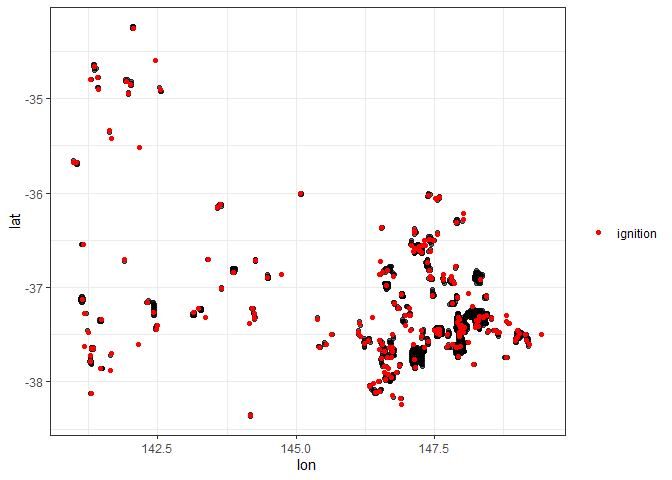
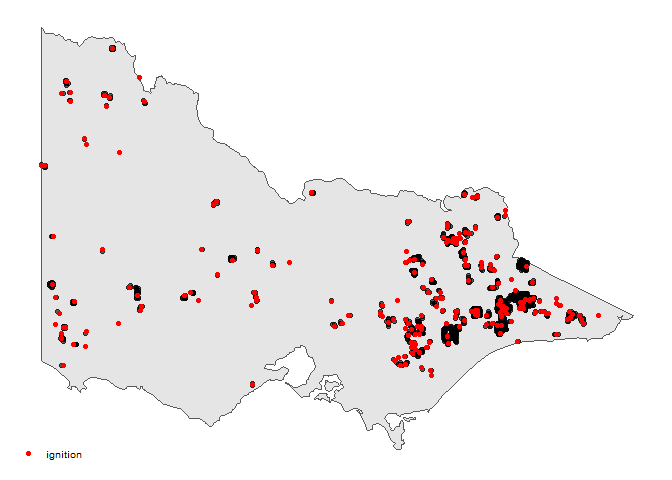
update readme

diff --git a/README.md b/README.md
@@ -61,6 +61,18 @@ hotspots5000[1:10,]
 #> 10 10 141.14 -37.16 2019-10-01 03:20:00
 ```
 
+``` r
+library(tidyverse)
+library(rnaturalearth)
+au_map <- ne_states(country = "Australia", returnclass = "sf")
+vic_map <- au_map[7,]
+ggplot(hotspots5000) +
+  geom_sf(data = vic_map) +
+  geom_point(aes(lon, lat), alpha = 0.3) +
+  ggthemes::theme_map() +
+  ggtitle("Raw Hotspots")
+```
+
 <img src="man/figures/README-unnamed-chunk-6-1.png" width="70%" height="70%" />
 
 Perform spatiotemporal clustering on this dataset.
@@ -127,7 +139,10 @@ summary(results)
 Plot of the result.
 
 ``` r
-plot(results, ignition = TRUE)
+p <- ggplot() +
+  geom_sf(data = vic_map) +
+  ggthemes::theme_map()
+plot(results, ignition = TRUE, bottom = p)
 ```
 
 <img src="man/figures/README-unnamed-chunk-11-1.png" width="70%" height="70%" />
